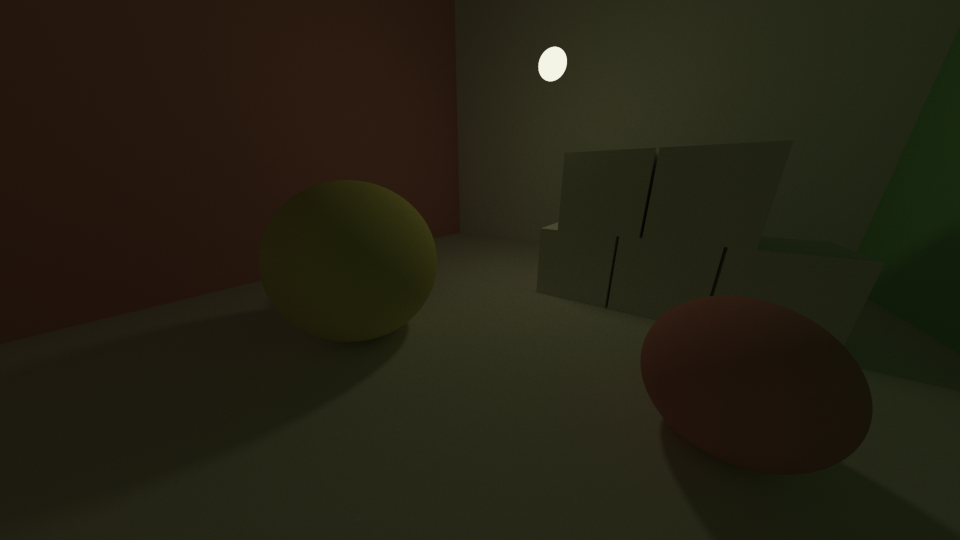
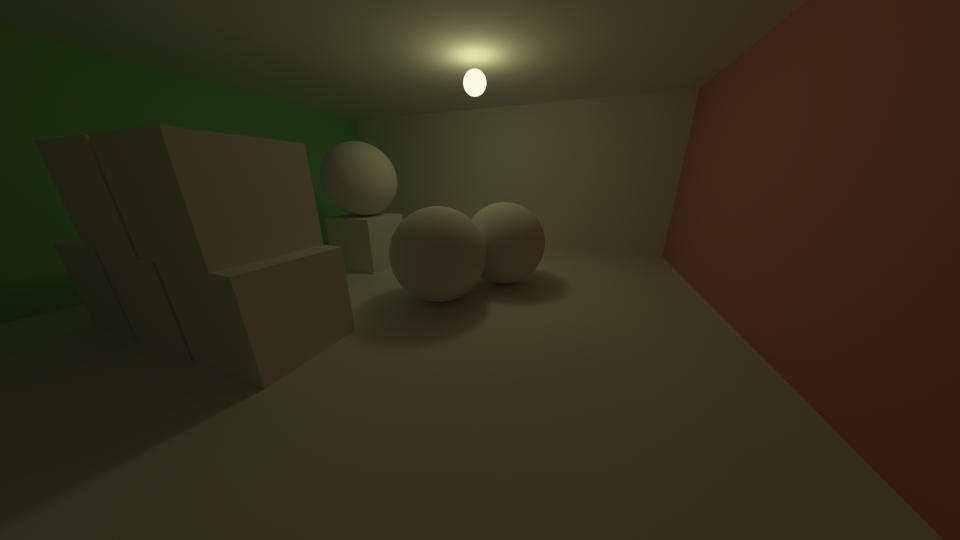
update

diff --git a/src/main.rs b/src/main.rs
@@ -20,7 +20,7 @@ use std::io::Write;
 // --- CONFIGURATION ---
 const SAMPLES_PREVIEW: usize = 1;
 const MAX_DEPTH_PREVIEW: usize = 4;
-const SAMPLES_FHD: usize = 128;
+const SAMPLES_FHD: usize = 1024;
 const MAX_DEPTH_FHD: usize = 8;
 
 /// Build the scene with multiple objects for interesting lighting.
